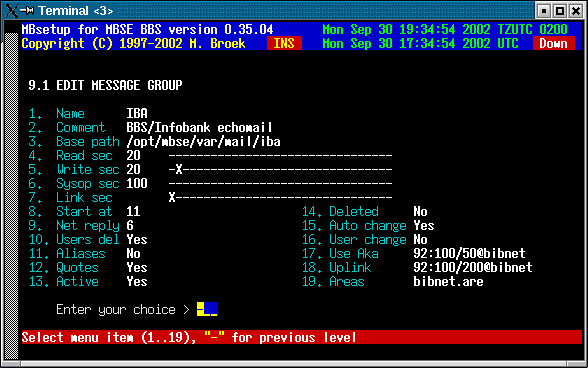
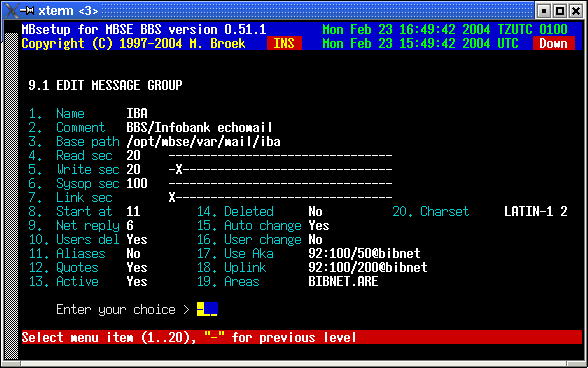
Updates for CHRS kludge

diff --git a/html/setup/emareas.html b/html/setup/emareas.html
@@ -14,7 +14,7 @@
 </HEAD>
 <BODY>
 <BLOCKQUOTE>
-<div align="right"><h5>Last update 30-Sep-2002</h5></div>
+<div align="right"><h5>Last update 23-Feb-2004</h5></div>
 <div align="center"><H1>MBSE BBS Setup - Mail Setup -> Mail Areas.</H1></div>
 
 <H3>Introduction.</H3>
@@ -48,8 +48,7 @@ change netmail reply board and delete message area.
 <strong>Distrib.    </strong>Leave this blank for now!
 <strong>Area Type   </strong>Local, Netmail, Echomail or News.
 <strong>Msg Kinds   </strong>Private/Public, Private, Public, Read Only, FTN moderated, Usenet Moderated
-<strong>FTN chars   </strong>FTN characterset, not in use yet, defaults to IBMPC 2
-<strong>RFC chars   </strong>RFC characterset, not in use yet, defaults tp LATIN-1 2
+<strong>Charset     </strong>Default characterset for the area
 <strong>Active      </strong>If this area is active.
 <strong>Days Old    </strong>The maximum age of the messages before purging.
 <strong>Max. Msgs   </strong>The maximum messages in this area.

diff --git a/html/setup/emgroup.html b/html/setup/emgroup.html
@@ -14,7 +14,7 @@
 </HEAD>
 <BODY>
 <BLOCKQUOTE>
-<div align="right"><h5>Last update 30-Sep-2002</h5></div>
+<div align="right"><h5>Last update 23-Feb-2004</h5></div>
 <div align="center"><H1>MBSE BBS Setup - Mail Setup - Message Groups.</H1></div>
 
 <H3>Introduction.</H3>
@@ -55,6 +55,7 @@ skip a number of extra areas for future expansion.
 <strong>Use Aka     </strong>The Fidonet aka to use.
 <strong>Uplink      </strong>The Fidonet aka of your uplink.
 <strong>Areas       </strong>Areas file in the path defined in 1.4.6 screen 2.
+<strong>Charset     </strong>Default character set to use.
 </pre>
 <P>
 <IMG SRC="../images/emgroup.png" alt='Mail groups setup'>

diff --git a/lib/charset.c b/lib/charset.c
@@ -1,0 +1,68 @@
+/*****************************************************************************
+ *
+ * $Id$
+ * Purpose ...............: Characterset functions
+ *
+ *****************************************************************************
+ * Copyright (C) 1997-2004
+ *   
+ * Michiel Broek		FIDO:	2:280/2802
+ * Beekmansbos 10
+ * 1971 BV IJmuiden
+ * the Netherlands
+ *
+ * This file is part of MBSE BBS.
+ *
+ * This BBS is free software; you can redistribute it and/or modify it
+ * under the terms of the GNU General Public License as published by the
+ * Free Software Foundation; either version 2, or (at your option) any
+ * later version.
+ *
+ * MBSE BBS is distributed in the hope that it will be useful, but
+ * WITHOUT ANY WARRANTY; without even the implied warranty of
+ * MERCHANTABILITY or FITNESS FOR A PARTICULAR PURPOSE.  See the GNU
+ * General Public License for more details.
+ * 
+ * You should have received a copy of the GNU General Public License
+ * along with MBSE BBS; see the file COPYING.  If not, write to the Free
+ * Software Foundation, 59 Temple Place, Suite 330, Boston, MA 02111-1307 USA.
+ *****************************************************************************/
+
+#include "../config.h"
+#include "mbselib.h"
+
+
+char *getchrs(int val)
+{
+    switch (val) {
+        case FTNC_NONE:     return (char *)"Undefined";
+        case FTNC_CP437:    return (char *)"CP437 2";
+        case FTNC_CP850:    return (char *)"CP850 2";
+        case FTNC_CP865:    return (char *)"CP865 2";
+        case FTNC_CP866:    return (char *)"CP866 2";
+        case FTNC_LATIN_1:  return (char *)"LATIN-1 2";
+        case FTNC_LATIN_2:  return (char *)"LATIN-2 2";
+        case FTNC_LATIN_5:  return (char *)"LATIN-5 2";
+        case FTNC_MAC:      return (char *)"MAC 2";
+        default:            return (char *)"LATIN-1 2";
+    }
+}
+
+
+char *getchrsdesc(int val)
+{
+    switch (val) {
+        case FTNC_NONE:     return (char *)"Undefined";
+        case FTNC_CP437:    return (char *)"IBM codepage 437 (Western European) (ANSI terminal)";
+        case FTNC_CP850:    return (char *)"IBM codepage 850 (Latin-1)";
+        case FTNC_CP865:    return (char *)"IBM codepage 865 (Nordic)";
+        case FTNC_CP866:    return (char *)"IBM codepage 866 (Russian)";
+        case FTNC_LATIN_1:  return (char *)"ISO 8859-1 (Western European)";
+        case FTNC_LATIN_2:  return (char *)"ISO 8859-2 (Eastern European)";
+        case FTNC_LATIN_5:  return (char *)"ISO 8859-5 (Turkish)";
+        case FTNC_MAC:      return (char *)"MacIntosh character set";
+        default:            return (char *)"ERROR";
+    }
+}
+
+

diff --git a/lib/mbselib.h b/lib/mbselib.h
@@ -2118,30 +2118,38 @@ struct	termios	tbufs, tbufsavs;	/* Structure for raw mode	*/
 /*
  * From endian.c
  */
-int le_int(int);
+int	le_int(int);
 
 
 
 /*
  * From attach.c
  */
-int		attach(faddr, char *, int, char);
+int	attach(faddr, char *, int, char);
+
+
+
+/*
+ * From charset.c
+ */
+char	*getchrs(int);			/* Return characterset name	    */
+char	*getchrsdesc(int);		/* Return characterset description  */
 
 
 
 /*
  * From dostran.c
  */
-char		*Dos2Unix(char *);
-char		*Unix2Dos(char *);
+char	*Dos2Unix(char *);
+char	*Unix2Dos(char *);
 
 
 
 /*
  * From execute.c
  */
-int		execute(char *, char *, char *, char *, char *, char *);
-int		execsh(char *, char *, char *, char *);
+int	execute(char *, char *, char *, char *, char *, char *);
+int	execsh(char *, char *, char *, char *);
 
 
 

diff --git a/mbsetup/ledit.c b/mbsetup/ledit.c
@@ -2190,24 +2190,6 @@ char *getmenutype(int val)
 
 
 
-char *getchrs(int val)
-{
-    switch (val) {
-	case FTNC_NONE:	    return (char *)"Undefined";
-	case FTNC_CP437:    return (char *)"CP437";
-	case FTNC_CP850:    return (char *)"CP850";
-	case FTNC_CP865:    return (char *)"CP865";
-	case FTNC_CP866:    return (char *)"CP866";
-	case FTNC_LATIN_1:  return (char *)"Latin-1";
-	case FTNC_LATIN_2:  return (char *)"Latin-2";
-	case FTNC_LATIN_5:  return (char *)"Latin-5";
-	case FTNC_MAC:	    return (char *)"Mac";
-	default:	    return (char *)"ERROR";
-    }
-}
-
-
-
 void show_charset(int y, int x, int val)
 {
     show_str(y, x, 9, getchrs(val));

diff --git a/mbfido/post.c b/mbfido/post.c
@@ -191,8 +191,12 @@ void Post(char *To, long Area, char *Subj, char *File, char *Flavor)
 	Msg.ReplyCRC = 0xffffffff;
 	sprintf(temp, "\001PID: MBSE-FIDO %s", VERSION);
 	MsgText_Add2(temp);
-//	sprintf(temp, "\001CHRS: %s", getchrs(msgs.Ftncode));
-//	MsgText_Add2(temp);
+	if (msgs.Charset != FTNC_NONE) {
+	    sprintf(temp, "\001CHRS: %s", getchrs(msgs.Charset));
+	} else {
+	    sprintf(temp, "\001CHRS: %s", getchrs(FTNC_LATIN_1));
+	}
+	MsgText_Add2(temp);
 	sprintf(temp, "\001TZUTC: %s", gmtoffset(tt));
 	MsgText_Add2(temp);
 

diff --git a/mbsebbs/msgutil.c b/mbsebbs/msgutil.c
@@ -219,8 +219,12 @@ void Add_Headkludges(faddr *dest, int IsReply)
 			break;
     }
 
-//  sprintf(temp, "\001CHRS: %s", getchrs(msgs.Ftncode));
-//  MsgText_Add2(temp);
+    if (msgs.Charset != FTNC_NONE) {
+	sprintf(temp, "\001CHRS: %s", getchrs(msgs.Charset));
+    } else {
+	sprintf(temp, "\001CHRS: %s", getchrs(FTNC_LATIN_1));
+    }
+    MsgText_Add2(temp);
     sprintf(temp, "\001MSGID: %s %08lx", aka2str(msgs.Aka), sequencer());
     MsgText_Add2(temp);
     Msg.MsgIdCRC = upd_crc32(temp, crc, strlen(temp));

diff --git a/mbfido/msgutil.c b/mbfido/msgutil.c
@@ -89,7 +89,12 @@ void Msg_Pid(void)
 	temp = calloc(81, sizeof(char));
 	sprintf(temp, "\001PID: MBSE-FIDO %s", VERSION);
 	MsgText_Add2(temp);
-//	sprintf(temp, "\001CHRS: %s", getchrs(msgs.Ftncode));
+	if (msgs.Charset != FTNC_NONE) {
+	    sprintf(temp, "\001CHRS: %s", getchrs(msgs.Charset));
+	} else {
+	    sprintf(temp, "\001CHRS: %s", getchrs(FTNC_LATIN_1));
+	}
+	MsgText_Add2(temp);
 	tt = time(NULL);
 	sprintf(temp, "\001TZUTC: %s", gmtoffset(tt));
 	MsgText_Add2(temp);

diff --git a/mbsetup/m_marea.c b/mbsetup/m_marea.c
@@ -294,11 +294,7 @@ void InitMsgRec(void)
     msgs.Type = ECHOMAIL;
     msgs.MsgKinds = PUBLIC;
     msgs.UsrDelete = TRUE;
-#ifdef HAVE_ICONV_H
     msgs.Charset = FTNC_LATIN_1;
-#else
-    msgs.Charset = FTNC_NONE;
-#endif
     msgs.MaxArticles = CFG.maxarticles;
     strcpy(msgs.Origin, CFG.origin);
     msgs.LinkSec.level = 1;

diff --git a/mbsetup/ledit.h b/mbsetup/ledit.h
@@ -80,7 +80,6 @@ void		show_aka(int, int, fidoaddr);
 void		edit_color(int *, int *, char *, char *);
 char		*get_color(int);
 char		*getmenutype(int);
-char		*getchrs(int);
 void		show_charset(int, int, int);
 int		edit_charset(int, int, int);
 
